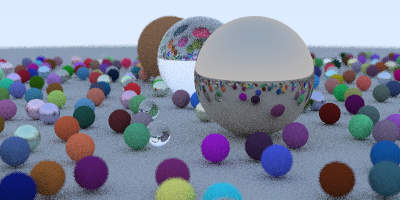
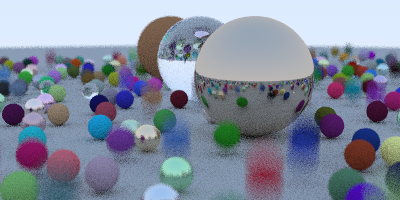
Added motion blur

diff --git a/material.h b/material.h
@@ -21,7 +21,7 @@ public:
 
     virtual bool scatter(const ray& r_in, const hit_record& rec, vec3& attenuation, ray& scattered) const override {
         vec3 scatter_direction = rec.normal + random_unit_vector();
-        scattered = ray(rec.point, scatter_direction);
+        scattered = ray(rec.point, scatter_direction, r_in.time());
         attenuation = albedo;
         return true;
     }
@@ -35,7 +35,7 @@ public:
 
     virtual bool scatter(const ray& r_in, const hit_record& rec, vec3& attenuation, ray& scattered) const override {
         vec3 reflected = reflect(unit_vector(r_in.direction()), rec.normal);
-        scattered = ray(rec.point, reflected + fuzz * random_in_unit_sphere());
+        scattered = ray(rec.point, reflected + fuzz * random_in_unit_sphere(), r_in.time());
         attenuation = albedo;
         return (dot(scattered.direction(), rec.normal) > 0);
     }
@@ -57,18 +57,18 @@ public:
         double sin_theta = sqrt(1.0 - cos_theta * cos_theta);
         if (etai_over_etat * sin_theta > 1.0) {
             vec3 reflected = reflect(unit_direction, rec.normal);
-            scattered = ray(rec.point, reflected);
+            scattered = ray(rec.point, reflected, r_in.time());
             return true;
         }
         double reflect_prob = schlick(cos_theta, etai_over_etat);
         if (random_double() < reflect_prob)
         {
             vec3 reflected = reflect(unit_direction, rec.normal);
-            scattered = ray(rec.point, reflected);
+            scattered = ray(rec.point, reflected, r_in.time());
             return true;
         }
         vec3 refracted = refract(unit_direction, rec.normal, etai_over_etat);
-        scattered = ray(rec.point, refracted);
+        scattered = ray(rec.point, refracted, r_in.time());
         return true;
     }
 

diff --git a/moving_sphere.cpp b/moving_sphere.cpp
@@ -1,0 +1,36 @@
+#include "moving_sphere.h"
+
+bool moving_sphere::hit(const ray& r, const float& t_min, const float& t_max, hit_record& rec) const {
+    vec3 oc = r.origin() - center(r.time());
+    auto a = r.direction().length_squared();
+    auto half_b = dot(oc, r.direction()); // half because the 2 will cancel out later
+    auto c = oc.length_squared() - radius * radius;
+    auto discriminant = half_b * half_b - a * c; // -4*ac (cancels out *2)
+
+    if (discriminant > 0) {
+        auto root = sqrt(discriminant);
+        auto temp = (-half_b - root) / a; // *2 cancelled out
+        if (temp < t_max && temp > t_min) {
+            rec.time = static_cast<float>(temp);
+            rec.point = r.at(rec.time);
+            vec3 outward_normal = (rec.point - center(r.time())) / radius;
+            rec.set_face_normal(r, outward_normal);
+            rec.mat_ptr = mat_ptr;
+            return true;
+        }
+        temp = (-half_b + root) / a; // *2 cancelled out
+        if (temp < t_max && temp > t_min) {
+            rec.time = static_cast<float>(temp);
+            rec.point = r.at(rec.time);
+            vec3 outward_normal = (rec.point - center(r.time())) / radius;
+            rec.set_face_normal(r, outward_normal);
+            rec.mat_ptr = mat_ptr;
+            return true;
+        }
+    }
+    return false;
+}
+
+vec3 moving_sphere::center(const double& time) const {
+    return center0 + ((time - time0) / (time1 - time0)) * (center1 - center0);
+}

diff --git a/main.cpp b/main.cpp
@@ -16,6 +16,7 @@
 #include "sphere.h"
 #include "camera.h"
 #include "material.h"
+#include "moving_sphere.h"
 
 
 constexpr float MAX_FLOAT = 100.f;
@@ -36,7 +37,12 @@ hittable_list random_scene() {
             if ((center - vec3(4, 0.2, 0)).length() > 0.9) {
                 if (choose_mat < 0.8) { // diffuse
                     auto albedo = vec3(random_double(), random_double(), random_double()) * vec3(random_double(), random_double(), random_double());
-                    world.add(make_shared<sphere>(center, 0.2, make_shared<lambertian>(albedo)));
+
+                    if (random_double() > 0.5) {
+                        world.add(make_shared<sphere>(center, 0.2, make_shared<lambertian>(albedo)));
+                    } else {
+                        world.add(make_shared<moving_sphere>(center, center + vec3(0, random_double(0, .5), 0), 0.0, 1.0, 0.2, make_shared<lambertian>(albedo)));
+                    }
                 }
                 else if (choose_mat < 0.95) { // metal
                     auto albedo = vec3(random_double(0.5, 1), random_double(0.5, 1), random_double(0.5, 1));
@@ -134,7 +140,7 @@ int main(int argc, char* argv[]) {
 
     if (!focus_dist)
         focus_dist = (cam_pos - look_at).length();
-    camera cam(cam_pos, look_at, vec3(0., 1., 0.), fov, aspect_ratio, aperture, focus_dist);
+    camera cam(cam_pos, look_at, vec3(0., 1., 0.), fov, aspect_ratio, aperture, focus_dist, 0, 1);
     auto world = random_scene();
 
 

diff --git a/camera.h b/camera.h
@@ -6,7 +6,7 @@
 
 class camera {
 public:
-    camera(const vec3& lookfrom, const vec3& lookat, const vec3& vup, double vfov, double aspect, double aperture, double focus_dist) : origin(lookfrom) {
+    camera(const vec3& lookfrom, const vec3& lookat, const vec3& vup, double vfov, double aspect, double aperture, double focus_dist, double t0, double t1) : origin(lookfrom), time0(t0), time1(t1) {
         lens_radius = aperture / 2;
 
         auto theta = degrees_to_radians(vfov);
@@ -29,7 +29,7 @@ public:
         vec3 rd = lens_radius * random_in_unit_disk();
         vec3 offset = u * rd.x() + v * rd.y();
 
-        return ray(origin + offset, lower_left_corner + s * horizontal + t * vertical - origin - offset);
+        return ray(origin + offset, lower_left_corner + s * horizontal + t * vertical - origin - offset, random_double(time0, time1));
     }
 
     vec3 origin;
@@ -38,4 +38,5 @@ public:
     vec3 vertical;
     vec3 u, v, w;
     double lens_radius;
+    double time0, time1;
 };

diff --git a/moving_sphere.h b/moving_sphere.h
@@ -1,0 +1,23 @@
+#pragma once
+
+#include <memory>
+
+#include "hittable.h"
+#include "vec3.h"
+#include "ray.h"
+#include "material.h"
+
+class moving_sphere : public hittable {
+public:
+    moving_sphere() : radius(1), time0(0), time1(0) {}
+    moving_sphere(vec3 cen0, vec3 cen1, double t0, double t1, double r, std::shared_ptr<material> m)
+        : center0(cen0), center1(cen1), time0(t0), time1(t1), radius(r), mat_ptr(m) {};
+
+    virtual bool hit(const ray& r, const float& t_min, const float& t_max, hit_record& rec) const override;
+    vec3 center(const double& time) const;
+
+    vec3 center0, center1;
+    double time0, time1;
+    double radius;
+    std::shared_ptr<material> mat_ptr;
+};

diff --git a/ray.h b/ray.h
@@ -4,14 +4,16 @@
 
 class ray {
 public:
-    ray() {}
-    ray(const vec3& origin, const vec3& direction) : orig(origin), dir(direction) {}
+    ray() : tm(0) {}
+    ray(const vec3& origin, const vec3& direction, double time) : orig(origin), dir(direction), tm(time) {}
 
     vec3 origin() const { return orig; }
     vec3 direction() const { return dir; }
+    double time() const { return tm; }
 
     vec3 at(double position) const { return orig + position * dir; }
 
     vec3 orig;
     vec3 dir;
+    double tm;
 };

diff --git a/sphere.h b/sphere.h
@@ -9,7 +9,7 @@
 
 class sphere : public hittable {
 public:
-    sphere() : center(vec3()), radius(1) {}
+    sphere() : radius(1) {}
     sphere(const vec3& cen, double r, std::shared_ptr<material> m) : center(cen), radius(r), mat_ptr(m) {};
 
     virtual bool hit(const ray& r, const float& t_min, const float& t_max, hit_record& rec) const override;
